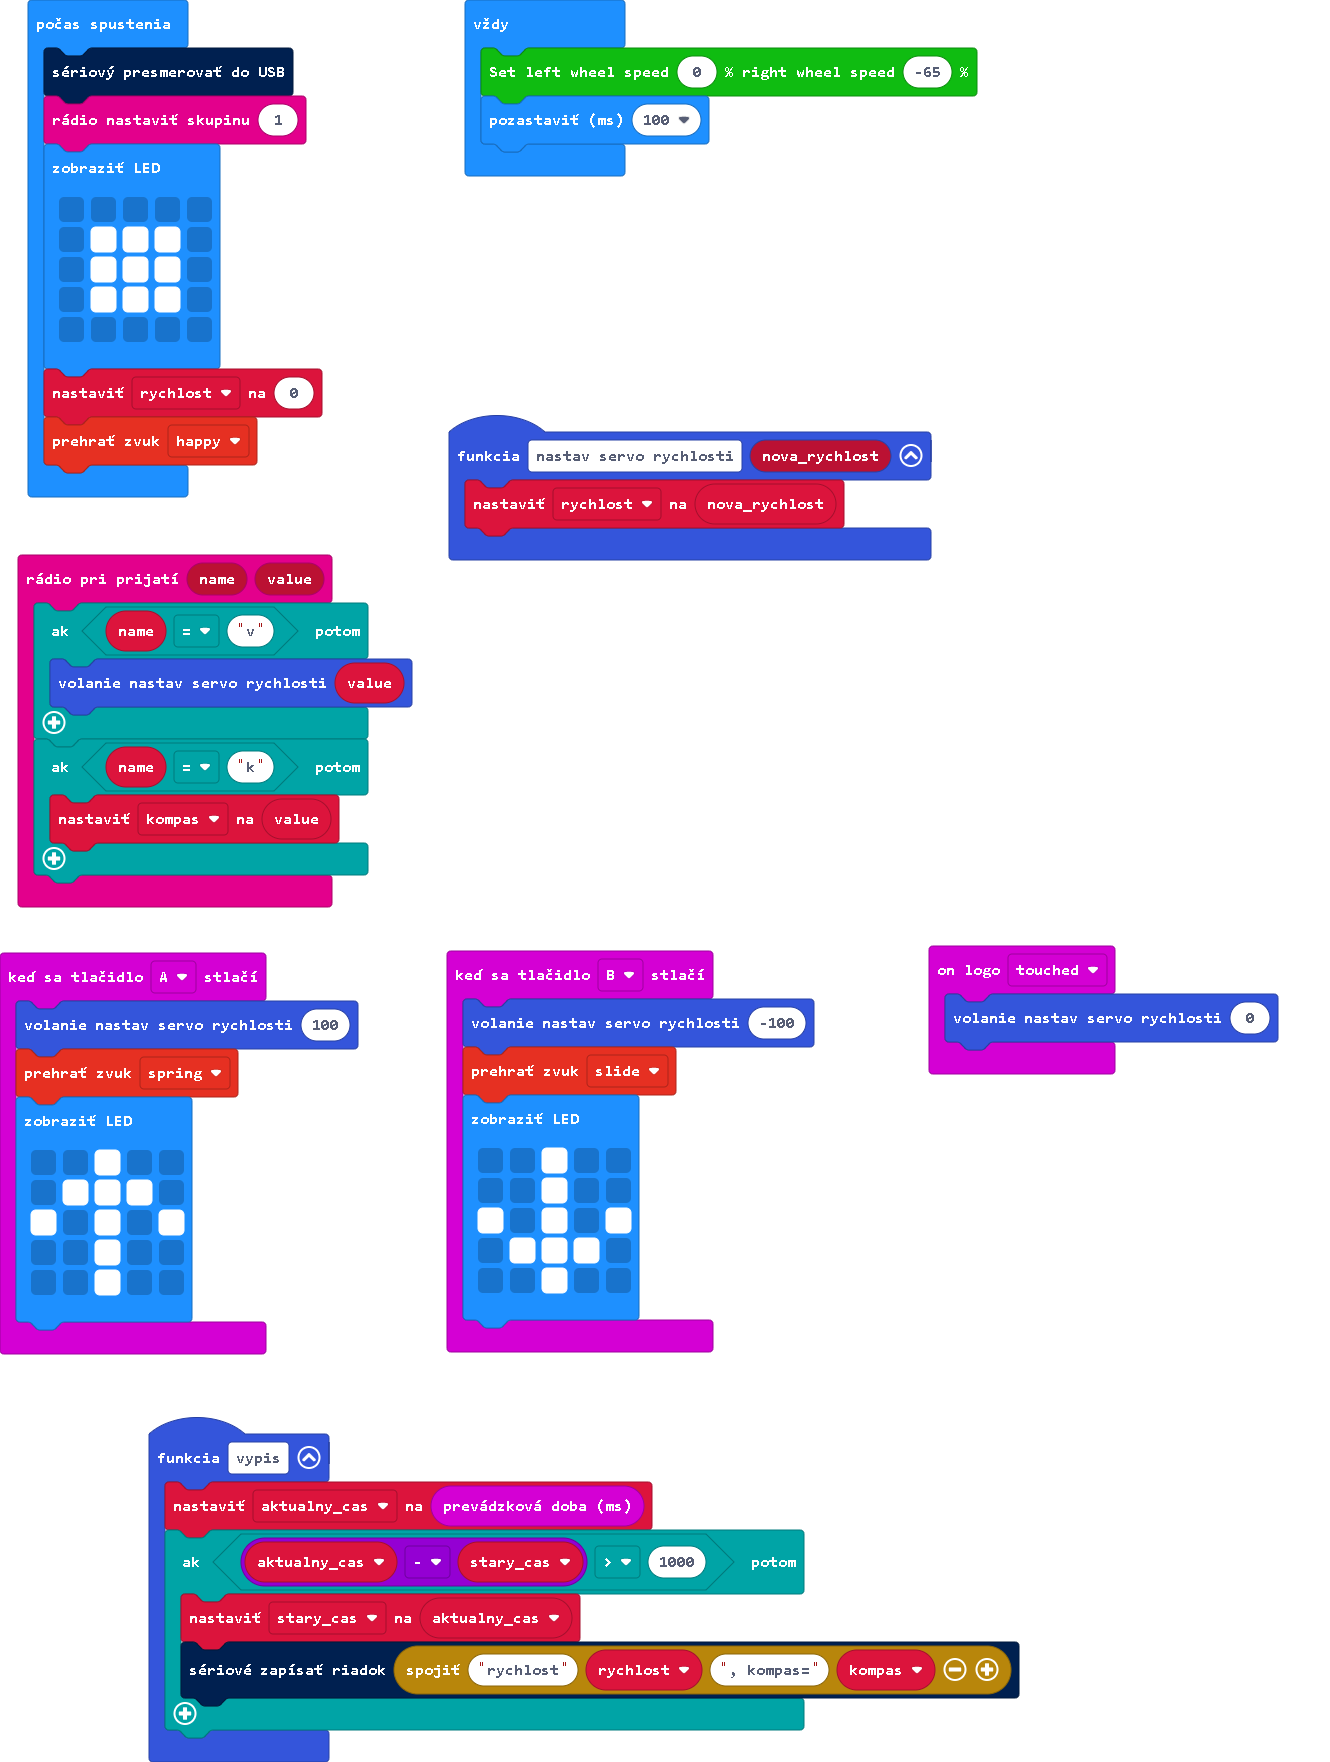
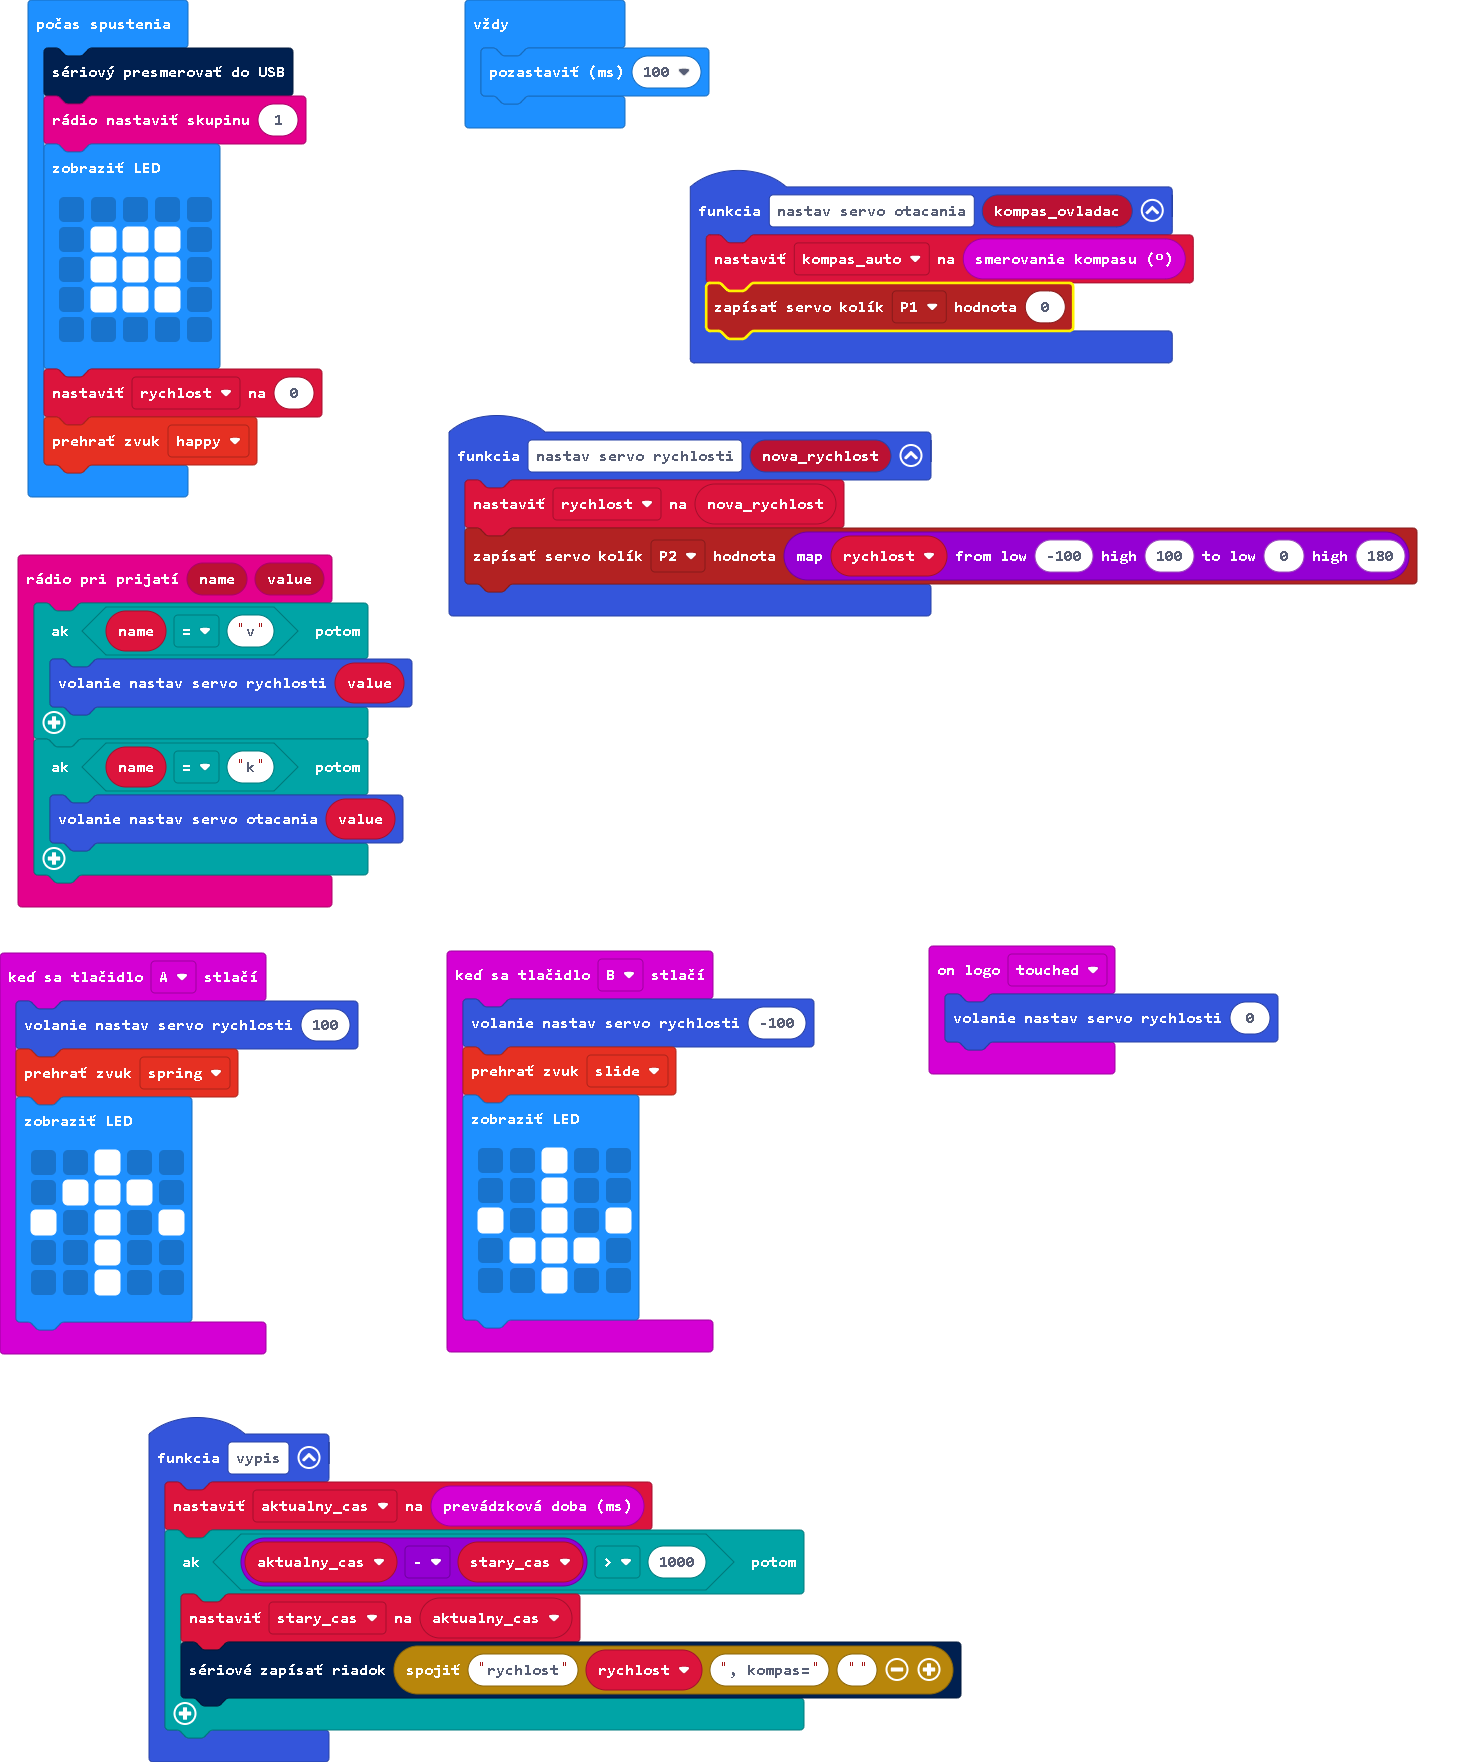
Aktualizovať main.blocks, main.ts

diff --git a/main.ts b/main.ts
@@ -1,5 +1,6 @@
 function nastav_servo_rychlosti (nova_rychlost: number) {
     rychlost = nova_rychlost
+    pins.servoWritePin(AnalogPin.P2, Math.map(rychlost, -100, 100, 0, 180))
 }
 input.onButtonPressed(Button.A, function () {
     nastav_servo_rychlosti(100)
@@ -16,7 +17,7 @@ function vypis () {
     aktualny_cas = input.runningTime()
     if (aktualny_cas - stary_cas > 1000) {
         stary_cas = aktualny_cas
-        serial.writeLine("rychlost" + rychlost + ", kompas=" + kompas)
+        serial.writeLine("rychlost" + rychlost + ", kompas=" + "")
     }
 }
 input.onButtonPressed(Button.B, function () {
@@ -35,13 +36,17 @@ radio.onReceivedValue(function (name, value) {
         nastav_servo_rychlosti(value)
     }
     if (name == "k") {
-        kompas = value
+        nastav_servo_otacania(value)
     }
 })
 input.onLogoEvent(TouchButtonEvent.Touched, function () {
     nastav_servo_rychlosti(0)
 })
-let kompas = 0
+function nastav_servo_otacania (kompas_ovladac: number) {
+    kompas_auto = input.compassHeading()
+    pins.servoWritePin(AnalogPin.P1, 0)
+}
+let kompas_auto = 0
 let stary_cas = 0
 let aktualny_cas = 0
 let rychlost = 0
@@ -57,6 +62,5 @@ basic.showLeds(`
 rychlost = 0
 soundExpression.happy.play()
 basic.forever(function () {
-    cuteBot.motors(0, -65)
     basic.pause(100)
 })
